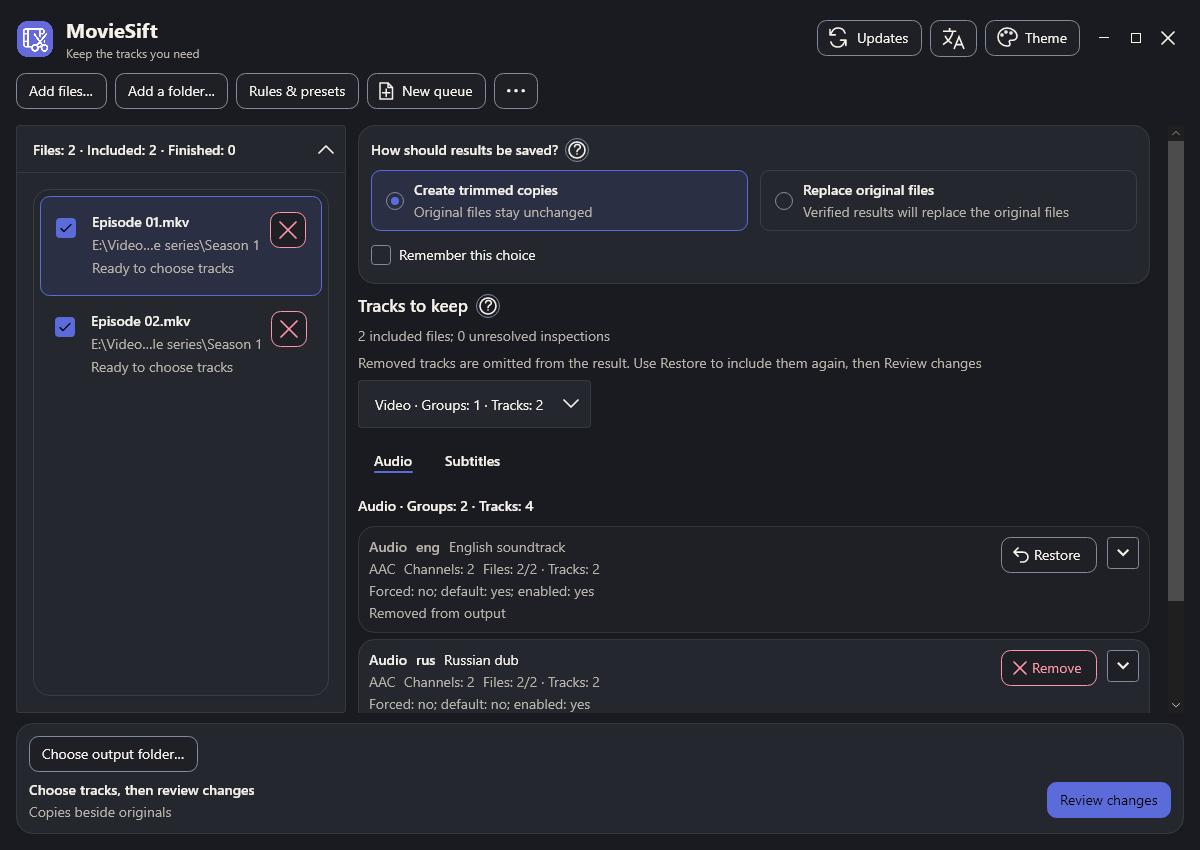
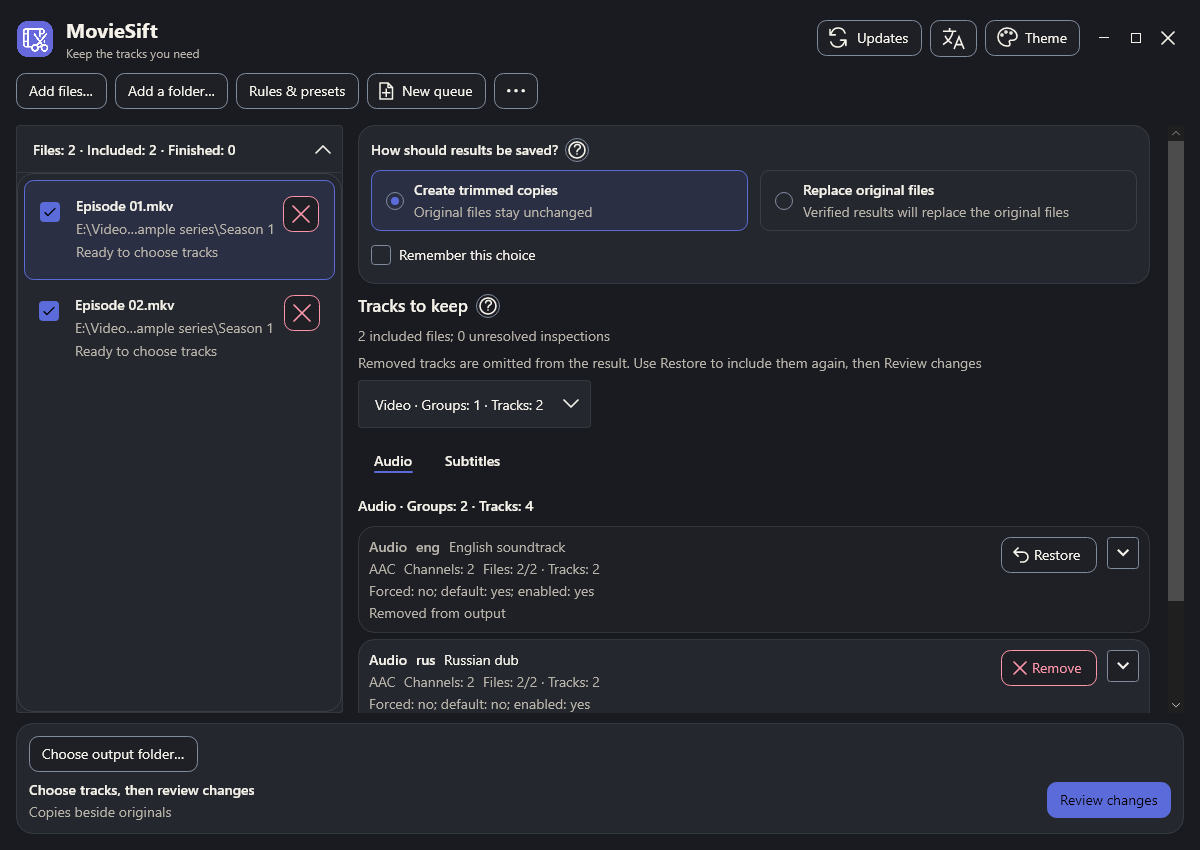
Reserve usable narrow file and track viewports across platforms

Changed region(s): [[0.0308, 0.2141, 0.2775, 0.4588]]

diff --git a/tests/MovieSift.Desktop.Tests/WorkspaceInputQualityTests.cs b/tests/MovieSift.Desktop.Tests/WorkspaceInputQualityTests.cs
@@ -23,6 +23,7 @@ public sealed class WorkspaceInputQualityTests
     private const double BoundsTolerance = 1;
     private const int MaximumFocusTraversalSteps = 100;
     private const int PlatformFooterBudgetDifference = 4;
+    private const double ConstrainedPreparationHeight = 149;
 
     /// <summary>Composes actual helper text against its displayed surface rather than trusting the source palette alone.</summary>
     [AvaloniaTheory]
@@ -171,6 +172,47 @@ public sealed class WorkspaceInputQualityTests
             var point = folderBounds.Center;
             var hit = window.InputHitTest(point);
             Assert.True(ReferenceEquals(hit, folder) || hit is Visual visual && visual.GetVisualAncestors().Contains(folder));
+            Assert.Empty(fixture.Backend.RemuxRequests);
+        }
+        finally
+        {
+            window.Close();
+        }
+    }
+
+    /// <summary>Reproduces the Linux footer budget independently of the host font metrics.</summary>
+    [AvaloniaTheory]
+    [InlineData("en")]
+    [InlineData("ru")]
+    public async Task ConstrainedNarrowShelfKeepsFileAndTrackActionsReachable(string language)
+    {
+        var fixture = SoftWorkspaceRenderTests.CreateLongNameFixture();
+        await fixture.LoadAsync();
+        await fixture.Main.ChangeLanguageCommand.ExecuteAsync(language);
+        var window = new MainWindow { DataContext = fixture.Main, Width = 640, Height = 480 };
+        window.Show();
+
+        try
+        {
+            Dispatcher.UIThread.RunJobs();
+            window.UpdateLayout();
+            var view = window.FindControl<BatchView>("Workspace")!;
+            var shelf = view.FindControl<Expander>("FileSidebar")!;
+            shelf.IsExpanded = true;
+            window.UpdateLayout();
+            var columns = view.FindControl<Grid>("WorkspaceColumns")!;
+            var footer = view.FindControl<StackPanel>("BatchRunControls")!;
+            var margin = footer.Margin;
+            footer.Margin = new(margin.Left, margin.Top + columns.Bounds.Height - ConstrainedPreparationHeight,
+                margin.Right, margin.Bottom);
+            Dispatcher.UIThread.RunJobs();
+            window.UpdateLayout();
+            Assert.InRange(columns.Bounds.Height, ConstrainedPreparationHeight - BoundsTolerance,
+                ConstrainedPreparationHeight + BoundsTolerance);
+            var tracks = view.FindControl<ScrollViewer>("WorkspaceScrollViewer")!;
+            var files = Assert.Single(view.FindControl<ListBox>("BatchFileList")!.GetVisualDescendants().OfType<ScrollViewer>());
+            Assert.True(tracks.Viewport.Height >= MinimumTrackViewport, $"Track viewport was {tracks.Viewport.Height}");
+            Assert.True(files.Viewport.Height >= MinimumFileViewport, $"File viewport was {files.Viewport.Height}");
             Assert.Empty(fixture.Backend.RemuxRequests);
         }
         finally

diff --git a/src/MovieSift.Desktop/Views/BatchView.axaml.cs b/src/MovieSift.Desktop/Views/BatchView.axaml.cs
@@ -17,6 +17,7 @@ public sealed partial class BatchView : UserControl
     private const double NarrowWorkspaceWidth = 850;
     private const double NarrowFileListHeight = 140;
     private const double NarrowExpandedShelfFraction = 0.75;
+    private const double NarrowMinimumTrackHeight = 48;
     private const double FileSidebarWidth = 330;
     private BatchViewModel? observedWorkspace;
     private bool? narrowLayout;
@@ -114,8 +115,12 @@ public sealed partial class BatchView : UserControl
         }
 
         WorkspaceColumns.RowDefinitions = new("Auto,*");
+        // Wrapped footer text can leave too little space for even one track action under a fractional cap alone.
+        var availableHeight = WorkspaceColumns.Bounds.Height;
+        var expandedShelfHeight = Math.Min(availableHeight * NarrowExpandedShelfFraction,
+            Math.Max(0, availableHeight - NarrowMinimumTrackHeight));
         FileSidebar.MaxHeight = FileSidebar.IsExpanded
-            ? WorkspaceColumns.Bounds.Height * NarrowExpandedShelfFraction : double.PositiveInfinity;
+            ? expandedShelfHeight : double.PositiveInfinity;
     }
 
     /// <summary>Opens deliberately activated row details while inclusion and filename controls retain their own actions.</summary>
